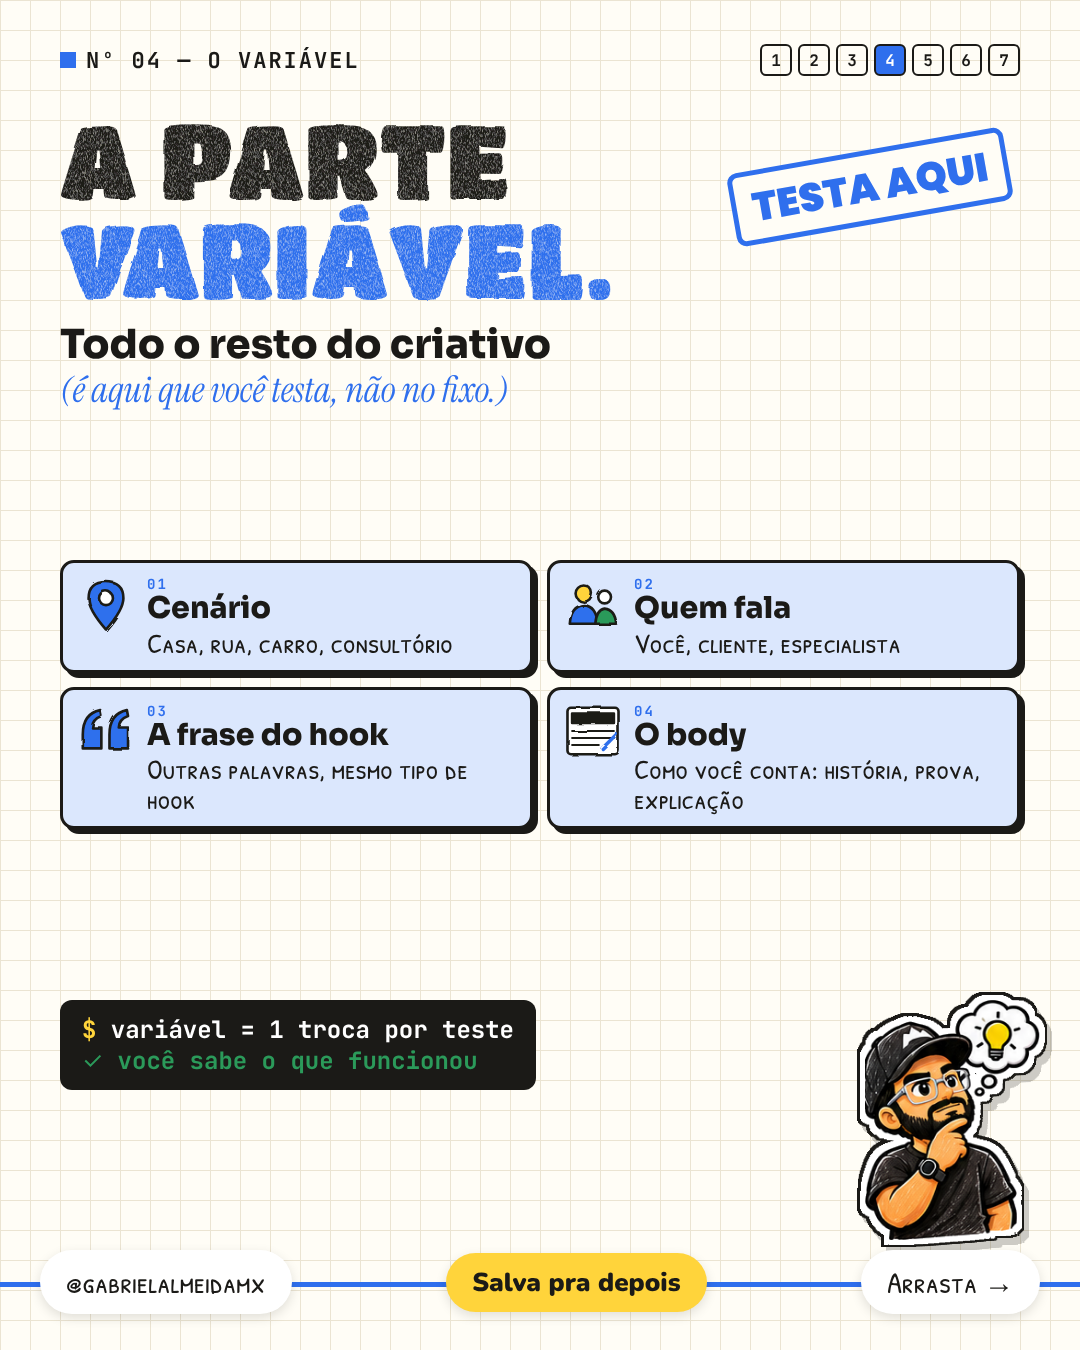
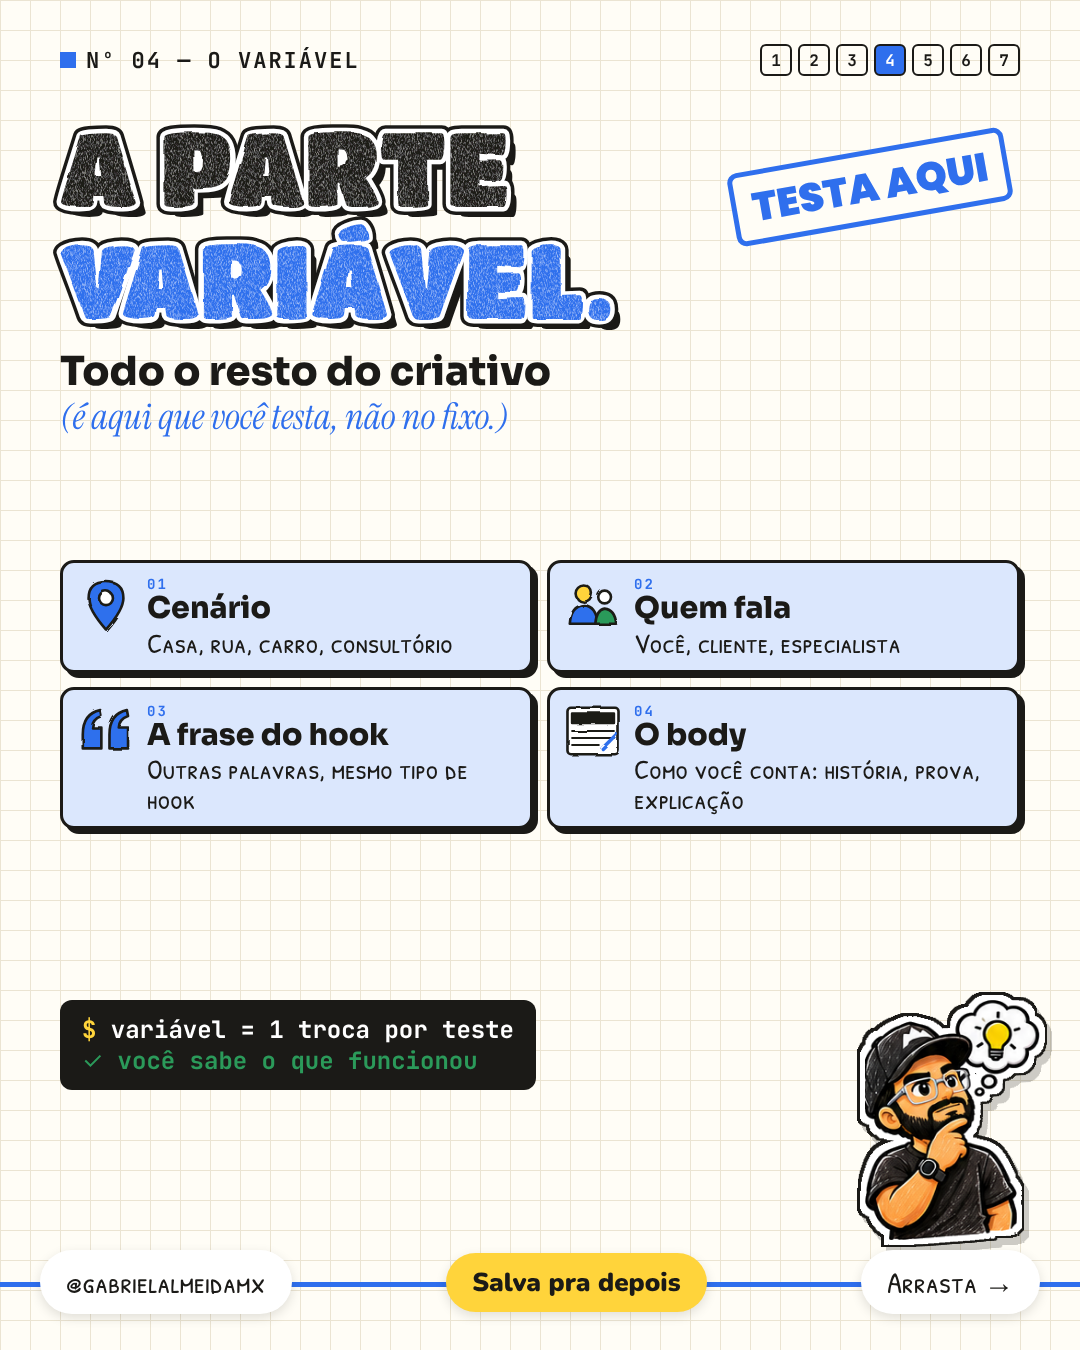
Títulos com borda branca e sombra 3D
Claude-Session: https://claude.ai/code/session_01Md5T5VQj3VmppQmeifTP3X

Changed region(s): [[0.0306, 0.0933, 0.5806, 0.3422]]

diff --git a/template/capas-criativo2.py b/template/capas-criativo2.py
@@ -15,13 +15,17 @@ X=f"""
 .g{{font-family:TT;text-transform:uppercase;line-height:.95;filter:url(#giz)}}
 .box{{background:#fff;border:3px solid #1b1a17;border-radius:14px;box-shadow:5px 5px 0 #1b1a17}}
 .d{{position:absolute;width:86px;height:86px}}.d svg{{width:100%;height:100%;overflow:visible}}
+/*g3d*/.g{{filter:none!important;position:relative;line-height:1.08!important}}.g .gf{{position:relative;filter:url(#giz)}}.g .gb,.g .gw{{position:absolute;left:0;top:0;right:0;filter:none}}.g .gb{{color:#1b1a17;-webkit-text-stroke:16px #1b1a17;text-shadow:1px 1px 0 #1b1a17,2px 2px 0 #1b1a17,3px 3px 0 #1b1a17,4px 4px 0 #1b1a17,5px 5px 0 #1b1a17,6px 6px 0 #1b1a17,7px 7px 0 #1b1a17,8px 8px 0 #1b1a17,9px 9px 0 #1b1a17,10px 10px 0 #1b1a17}}.g .gw{{color:#fff;-webkit-text-stroke:9px #fff}}
 .tag{{display:inline-block;font-family:JB;font-weight:700;font-size:15px;padding:2px 8px;border-radius:4px}}
 """
 FILT="""<svg width=0 height=0 style='position:absolute'><filter id='rough'><feTurbulence type='fractalNoise' baseFrequency='.04' numOctaves='2' seed='2'/><feDisplacementMap in='SourceGraphic' scale='4'/></filter>
 <filter id='giz' x='-5%' y='-5%' width='110%' height='110%'><feTurbulence type='fractalNoise' baseFrequency='1.4 .35' numOctaves='2' seed='7' result='n'/><feColorMatrix in='n' type='matrix' values='0 0 0 0 0  0 0 0 0 0  0 0 0 0 0  0 0 0 -1.3 1.55' result='m'/><feComposite in='SourceGraphic' in2='m' operator='in' result='t'/><feTurbulence type='fractalNoise' baseFrequency='.04' numOctaves='2' seed='3' result='d'/><feDisplacementMap in='t' in2='d' scale='5'/></filter></svg>"""
 def dd(k,x,y,r=0,s=86): return f"<div class='d' style='left:{x}px;top:{y}px;width:{s}px;height:{s}px;transform:rotate({r}deg)'>{I[k]}</div>"
 bar="<div class='bar'><span class='pill'>@gabrielalmeidamx</span><span class='pill save'>Salva pra depois</span><span class='pill'>Arrasta →</span></div>"
-def page(inner): return f"<html><head><style>{CSS}{X}</style></head><body>{FILT}<div class='slide'>{inner}{bar}</div></body></html>"
+def g3(h):
+    import re as _r
+    return _r.sub(r"(<div class='g'[^>]*>)([^<]*)</div>",lambda m:m.group(1)+f"<span class='gb'>{m.group(2)}</span><span class='gw'>{m.group(2)}</span><span class='gf'>{m.group(2)}</span></div>",h)
+def page(inner): inner=g3(inner); return f"<html><head><style>{CSS}{X}</style></head><body>{FILT}<div class='slide'>{inner}{bar}</div></body></html>"
 sq=''.join(f"<span style='display:inline-flex;width:32px;height:32px;border:2.5px solid #1b1a17;border-radius:6px;align-items:center;justify-content:center;font-family:JB;font-size:16px;{'background:#2f6fed;color:#fff;' if k==1 else ''}'>{k}</span>" for k in range(1,8))
 # E: diagrama
 idx=''.join(f"<div style='display:flex;gap:10px;align-items:center;font-size:30px'><span class='mono' style='color:#2f6fed;font-size:20px'>0{k+1}</span>{t}</div>" for k,t in enumerate(['O erro mais caro','A parte fixa','A parte variável','Como testar','Faça hoje']))
